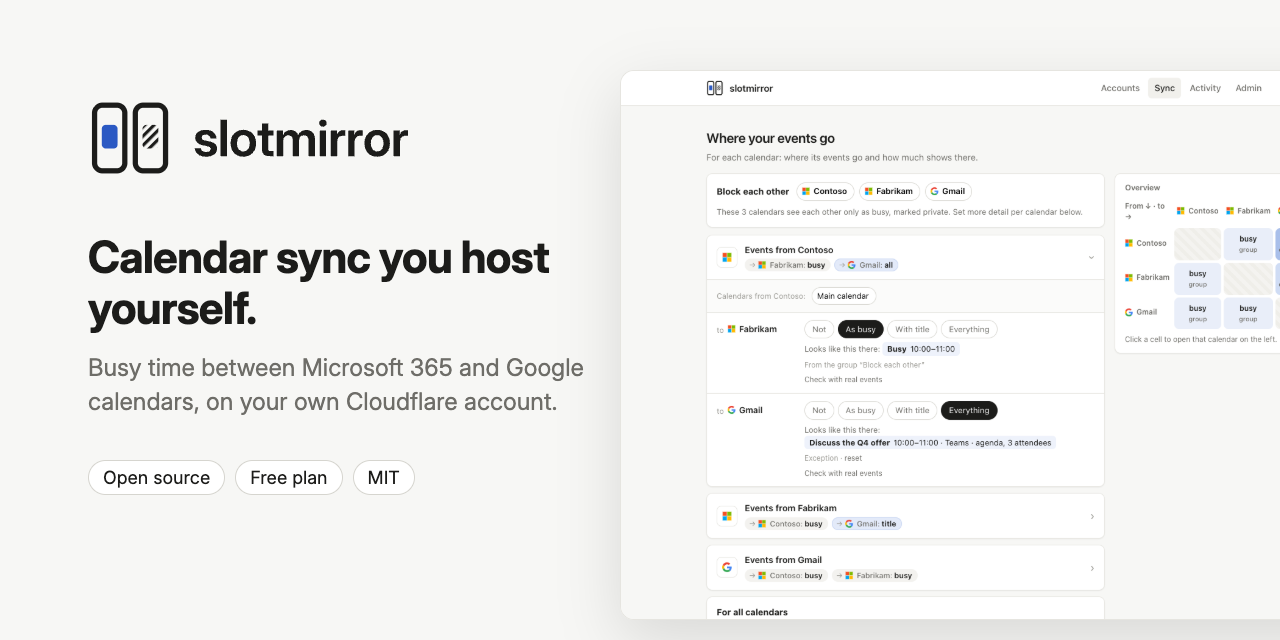
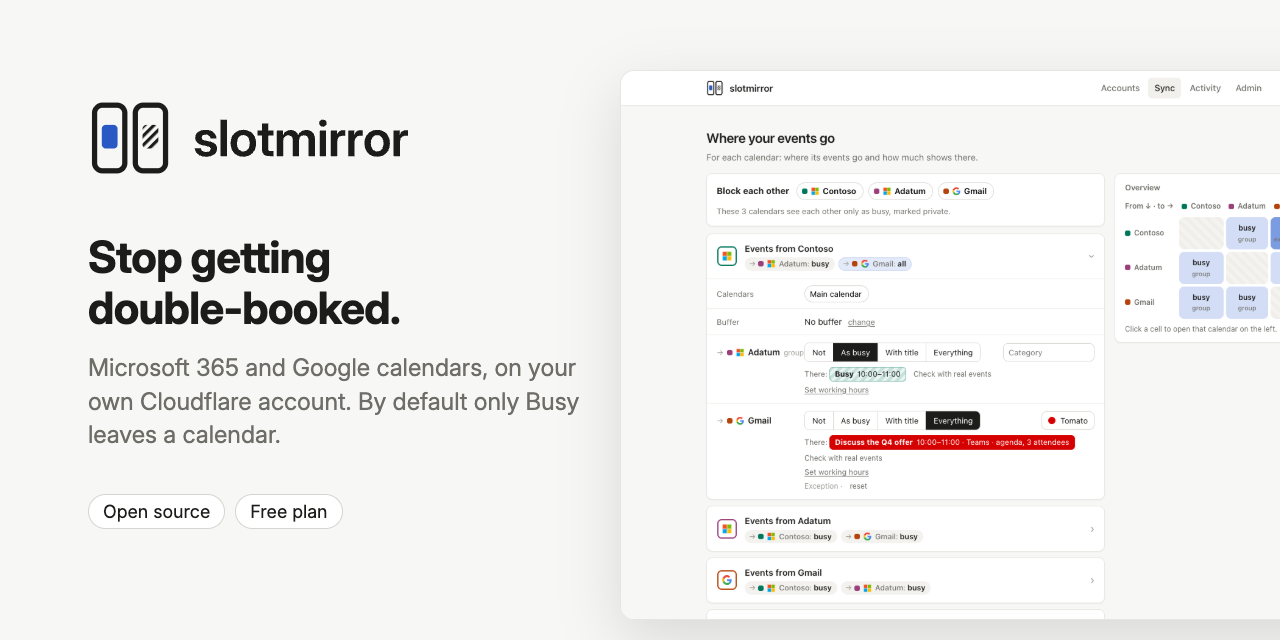
fix(website): align the link preview and page texts with the hero headline (#50)
The link preview promised another product than the hero. The title spoke of moved meetings, the
image of self-hosting, and the page headline of double bookings.

"Only Busy" was too strong: rules can show more, and the image itself shows "Everything". The
texts now say that this is the default.

The image drops its licence tag, so it stays true after the licence change. The editor screenshot
is new, because the old one predates the rebuilt editor.

diff --git a/design/social-preview.html b/design/social-preview.html
@@ -76,9 +76,12 @@
     <div class="wrap">
       <div class="left">
         <img src="logo/lockup-light-bg.svg" alt="" />
-        <h1>Calendar sync you host yourself.</h1>
-        <p>Busy time between Microsoft 365 and Google calendars, on your own Cloudflare account.</p>
-        <div class="tags"><span>Open source</span><span>Free plan</span><span>MIT</span></div>
+        <h1>Stop getting<br />double-booked.</h1>
+        <p>
+          Microsoft 365 and Google calendars, on your own Cloudflare account. By default only Busy
+          leaves a calendar.
+        </p>
+        <div class="tags"><span>Open source</span><span>Free plan</span></div>
       </div>
       <div class="shot"><img src="../docs/images/editor.png" alt="" /></div>
     </div>
